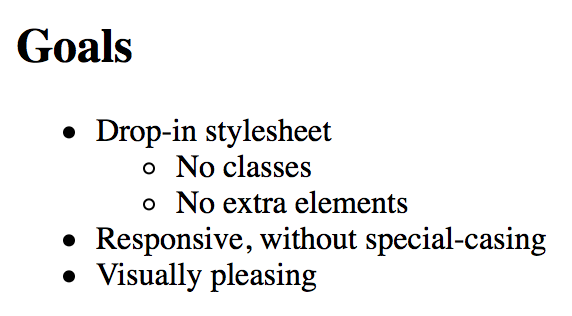
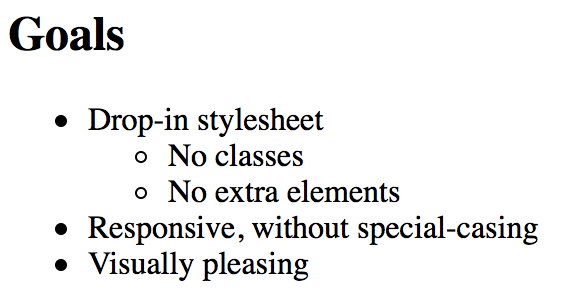
Update screenshots
Closes #10.

Changed region(s): [[0.0895, 0.3699, 0.9544, 0.9863], [0.0, 0.0308, 0.2386, 0.2158], [0.2386, 0.6164, 0.2684, 0.6781]]

diff --git a/index.html b/index.html
@@ -41,10 +41,16 @@
 <h2 id="motivation">Motivation</h2>
 <p><abbr>HTML</abbr> is super easy to write. Markdown is even easier to write and
 generate <abbr>HTML</abbr> from. But what does it look like?</p>
-<p><img src="screenshot/default.png" alt="Default Styles"></p>
+<p style="text-align: center;">
+  <img alt="Default styles" width="285" src="screenshot/default.png">
+</p>
+
 <p>Not very nice, and it gets worse the more there is. Applying the Writ
 stylesheet makes it better.</p>
-<p><img src="screenshot/writ.png" alt="Writ Styles"></p>
+<p style="text-align: center;">
+  <img alt="Writ styles" width="285" src="screenshot/writ.png">
+</p>
+
 <h2 id="caveats">Caveats</h2>
 <p>Writ is designed for modern, standards compliant browsers only. There are no
 compatibility hacks. Writ is tested on the latest stable releases of Safari,

diff --git a/README.md b/README.md
@@ -26,12 +26,16 @@ Writ is served through the CloudFlare CDN.
 <abbr>HTML</abbr> is super easy to write. Markdown is even easier to write and
 generate <abbr>HTML</abbr> from. But what does it look like?
 
-![Default Styles](screenshot/default.png)
+<p style="text-align: center;">
+  <img alt="Default styles" width="285" src="screenshot/default.png">
+</p>
 
 Not very nice, and it gets worse the more there is. Applying the Writ
 stylesheet makes it better.
 
-![Writ Styles](screenshot/writ.png)
+<p style="text-align: center;">
+  <img alt="Writ styles" width="285" src="screenshot/writ.png">
+</p>
 
 ## Caveats
 
